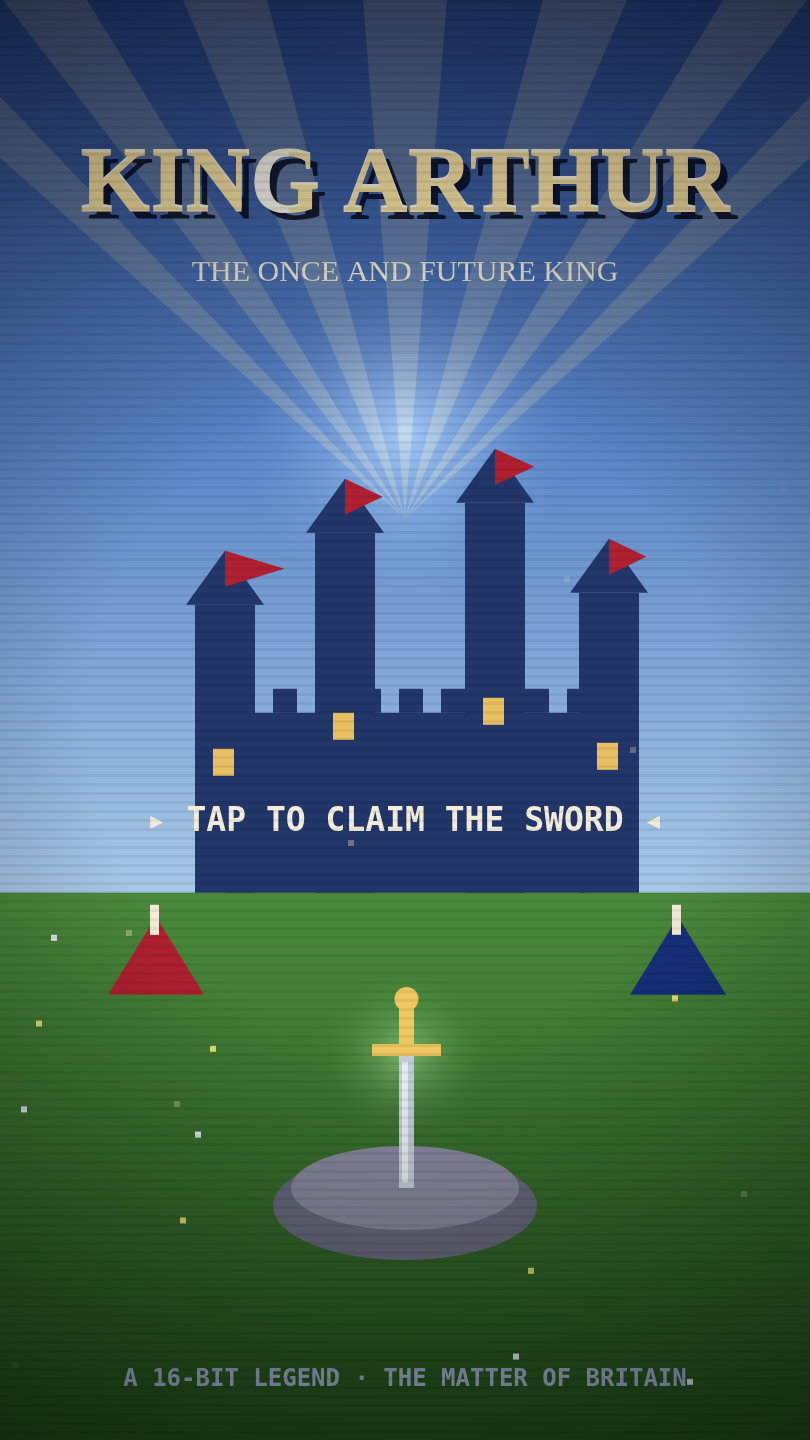
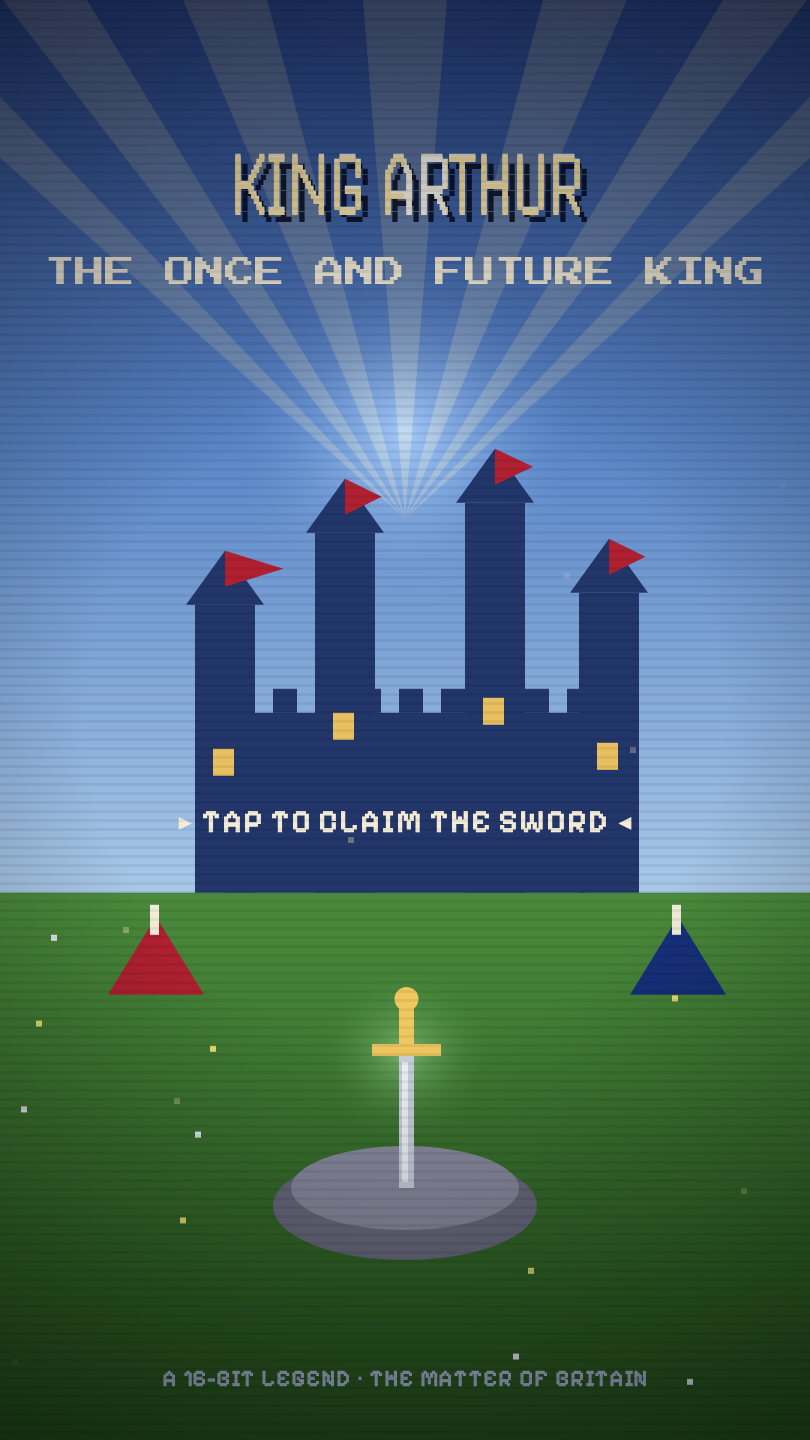
fix: swap illegible blackletter title fonts on Sherlock/Arthur/Dracula GEN4 (#54)
UX-sweep #34/#37 finding 1 (carried 4+ sweeps): Jacquard 12, Jacquarda
Bastarda 9, and Jacquard 24 render hero titles as gibberish at title
size — "SHERLOCK HOLMES" read as "SHCRLDCR / HDLMCS", "KING ARTHUR" and
"DRACULA" similarly distorted, on both boot screens and in-hub headers.

Swap in legible pixel display faces (Silkscreen, Handjet, Micro 5),
regenerate the three thumbnails that baked in the old title, and
update GEN4_QUEUE.md's claimed-fonts list to retire the blackletter
faces so future builds don't reuse them.

diff --git a/games/dracula-castle/index.html b/games/dracula-castle/index.html
@@ -6,7 +6,7 @@
   <title>Dracula — games.polecat.live</title>
   <meta name="theme-color" content="#0b0420" />
   <link rel="icon" href="../../assets/logo.svg" type="image/svg+xml" />
-  <link href="https://fonts.googleapis.com/css2?family=Press+Start+2P&family=Pixelify+Sans:wght@400;500;600;700&family=Jacquard+24&family=DotGothic16&family=Inter:wght@400;600&display=swap" rel="stylesheet" />
+  <link href="https://fonts.googleapis.com/css2?family=Press+Start+2P&family=Pixelify+Sans:wght@400;500;600;700&family=Micro+5&family=DotGothic16&family=Inter:wght@400;600&display=swap" rel="stylesheet" />
   <link rel="stylesheet" href="../../css/site.css" />
   <link rel="stylesheet" href="../../css/game.css" />
   <style id="game-theme">:root{--g-bg1:#2a0a14;--g-bg2:#0a0308;--g-bar:rgba(20,6,10,.95);--g-accent:#e23b4a;--g-title:#f0d6d6;--g-panel:rgba(30,10,14,.82);--g-border:#5a1822;--g-text:#b58a8a;--g-key:#e8b0b0;--g-stage:#5a1822;--g-glow:rgba(200,16,46,.3)}</style>

diff --git a/games/arthur-16/index.html b/games/arthur-16/index.html
@@ -6,7 +6,7 @@
   <title>King Arthur — games.polecat.live</title>
   <meta name="theme-color" content="#16307a" />
   <link rel="icon" href="../../assets/logo.svg" type="image/svg+xml" />
-  <link href="https://fonts.googleapis.com/css2?family=Press+Start+2P&family=Pixelify+Sans:wght@400;500;600;700&family=Jacquarda+Bastarda+9&family=Inter:wght@400;600&display=swap" rel="stylesheet" />
+  <link href="https://fonts.googleapis.com/css2?family=Press+Start+2P&family=Pixelify+Sans:wght@400;500;600;700&family=Handjet:wght@400..900&family=Inter:wght@400;600&display=swap" rel="stylesheet" />
   <link rel="stylesheet" href="../../css/site.css" />
   <link rel="stylesheet" href="../../css/game.css" />
   <style id="game-theme">:root{--g-bg1:#14285e;--g-bg2:#070d20;--g-bar:rgba(14,26,58,.95);--g-accent:#f0c860;--g-title:#f4ecd8;--g-panel:rgba(16,28,64,.82);--g-border:#2a3a7a;--g-text:#8a96b8;--g-key:#21e6ff;--g-stage:#2a3a7a;--g-glow:rgba(240,200,96,.28)}</style>

diff --git a/games/sherlock-16/index.html b/games/sherlock-16/index.html
@@ -6,7 +6,7 @@
   <title>Sherlock Holmes — games.polecat.live</title>
   <meta name="theme-color" content="#1a140c" />
   <link rel="icon" href="../../assets/logo.svg" type="image/svg+xml" />
-  <link href="https://fonts.googleapis.com/css2?family=Press+Start+2P&family=Pixelify+Sans:wght@400;500;600;700&family=Jacquard+12&family=Inter:wght@400;600&display=swap" rel="stylesheet" />
+  <link href="https://fonts.googleapis.com/css2?family=Press+Start+2P&family=Pixelify+Sans:wght@400;500;600;700&family=Silkscreen:wght@400;700&family=Inter:wght@400;600&display=swap" rel="stylesheet" />
   <link rel="stylesheet" href="../../css/site.css" />
   <link rel="stylesheet" href="../../css/game.css" />
   <style id="game-theme">:root{--g-bg1:#1c160c;--g-bg2:#0a0806;--g-bar:rgba(26,20,10,.95);--g-accent:#c9a14a;--g-title:#efe2c2;--g-panel:rgba(30,24,12,.82);--g-border:#4a3c22;--g-text:#a89468;--g-key:#5dff8f;--g-stage:#4a3c22;--g-glow:rgba(201,161,74,.28)}</style>

diff --git a/games/dracula-castle/game.js b/games/dracula-castle/game.js
@@ -16,9 +16,11 @@
     blood: '#c8102e', bloodL: '#e23b4a', rose: '#e8c0c0',
     gold: '#e3c567', bone: '#cdbfe0', stone: '#3a2f44', shadow: '#080410',
   };
-  // pixel-blackletter display face for every hero title (boot logo, hub header,
-  // framed screens) — period-correct 16-bit, not a modern vector serif.
-  const TITLE = "'Jacquard 24','Press Start 2P',serif";
+  // gothic-flavored pixel display face for every hero title (boot logo, hub
+  // header, framed screens) — Jacquard 24's blackletter forms read as
+  // gibberish at title size (UX-sweep #34/#37 finding 1), so this stays
+  // legible while keeping an eerie, angular 16-bit feel.
+  const TITLE = "'Micro 5','Press Start 2P',serif";
 
   /* ─── heraldic bat crest (title + finale) ─── */
   function emblem(api, cx, cy) {

diff --git a/games/sherlock-16/game.js b/games/sherlock-16/game.js
@@ -18,9 +18,10 @@
     phosphor: '#1aff6a', green: '#5dff8f', blood: '#a83028', tweed: '#7a6844',
     stone: '#4a4436', cream: '#efe2c2', dim: '#8f8060',
   };
-  // woven Victorian pixel face for hero titles — period-correct 16-bit, not a
-  // modern vector serif (Jacquard 12 reads like engraved newsprint).
-  const TITLE = "'Jacquard 12','Press Start 2P',serif";
+  // bold pixel display face for hero titles — period-correct 16-bit and
+  // actually legible (Jacquard 12's blackletter forms read as gibberish,
+  // UX-sweep #34/#37 finding 1: "SHERLOCK HOLMES" rendered as "SHCRLDCR").
+  const TITLE = "'Silkscreen','Press Start 2P',serif";
 
   /* ─── emblem: the lens over a giant pawprint ─── */
   function emblem(api, cx, cy) {

diff --git a/js/changelog.js b/js/changelog.js
@@ -10,6 +10,15 @@
 // format stays identical to the rest of the fleet.
 export const CHANGELOG = [
   {
+    v: 152,
+    title: 'Fixed illegible GEN4 titles on Sherlock, Arthur & Dracula',
+    kind: 'fix',
+    ts: '2026-07-28T17:20:22.828Z',
+    items: [
+      'Sherlock Holmes, King Arthur, and Dracula\'s 16-bit titles used blackletter display fonts whose stylized letterforms read as gibberish (e.g. "SHERLOCK HOLMES" rendered as "SHCRLDCR / HDLMCS") — flagged 4+ sweeps running. Swapped in legible pixel display faces (Silkscreen, Handjet, Micro 5) for every hero title and in-hub header, and refreshed their thumbnails.',
+    ],
+  },
+  {
     v: 151,
     title: 'A Thousand Nights rebuilt as a branching adventure',
     kind: 'game',

diff --git a/games/arthur-16/game.js b/games/arthur-16/game.js
@@ -18,8 +18,9 @@
     grass: '#3a7a34', cream: '#f4ecd8', ink: '#1a1408', dim: '#8a96b8',
     mist: '#b8cce0', steel: '#c8d0dc',
   };
-  // pixel-blackletter display face, distinct from Dracula's Jacquard 24.
-  const TITLE = "'Jacquarda Bastarda 9','Press Start 2P',serif";
+  // bold pixel display face, legible at title size (Jacquarda Bastarda 9's
+  // blackletter forms read as gibberish — UX-sweep #34/#37 finding 1).
+  const TITLE = "'Handjet','Press Start 2P',serif";
 
   /* ─── emblem: Excalibur upright through a gold crown ─── */
   function emblem(api, cx, cy) {
